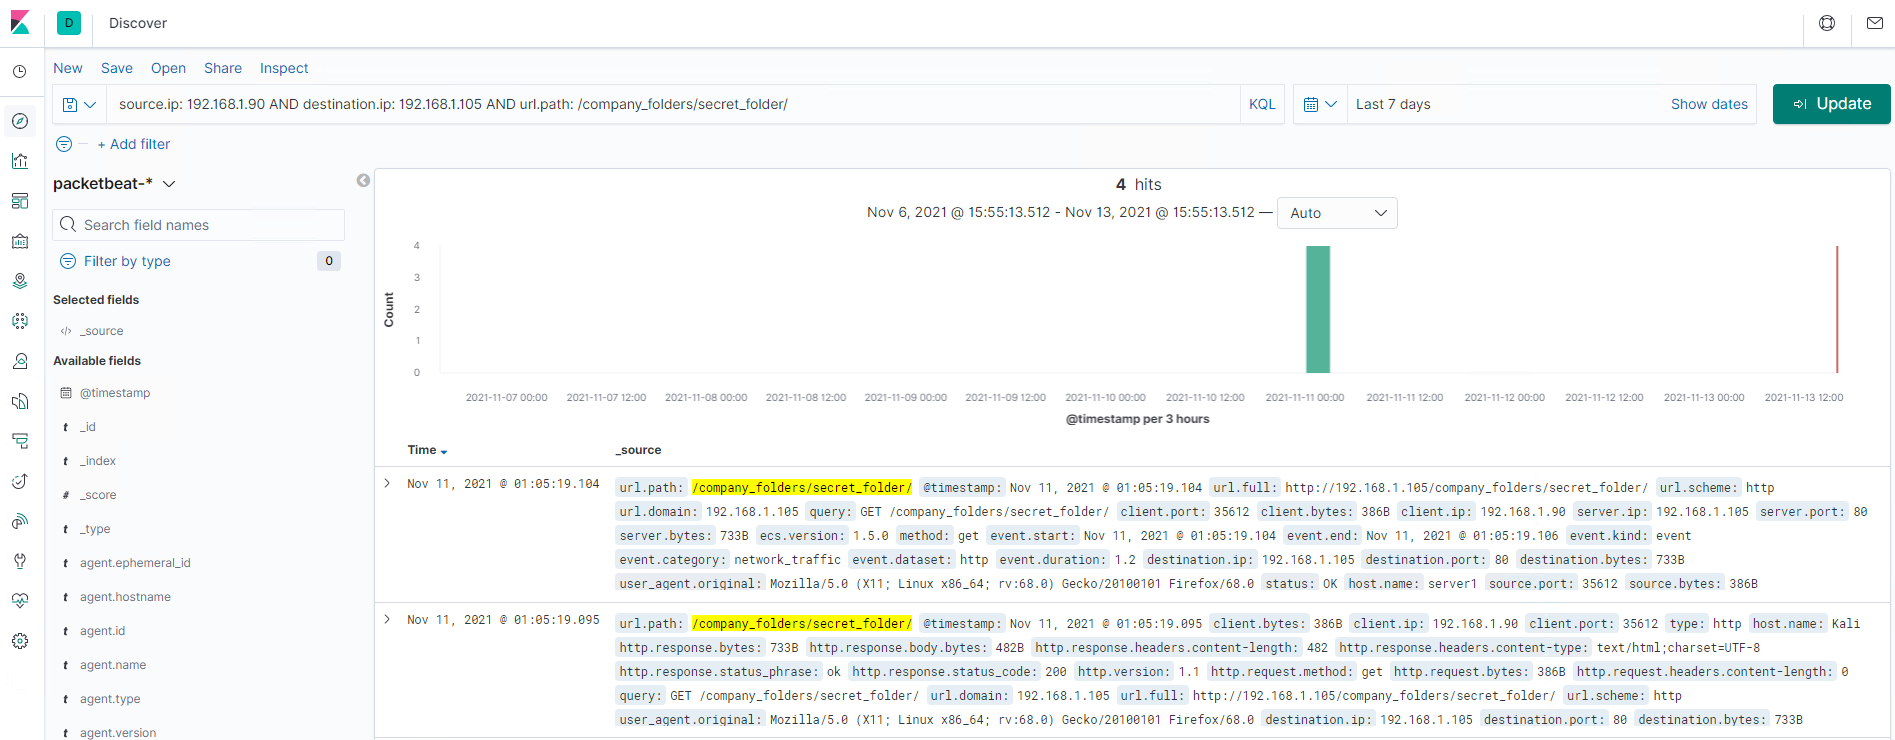
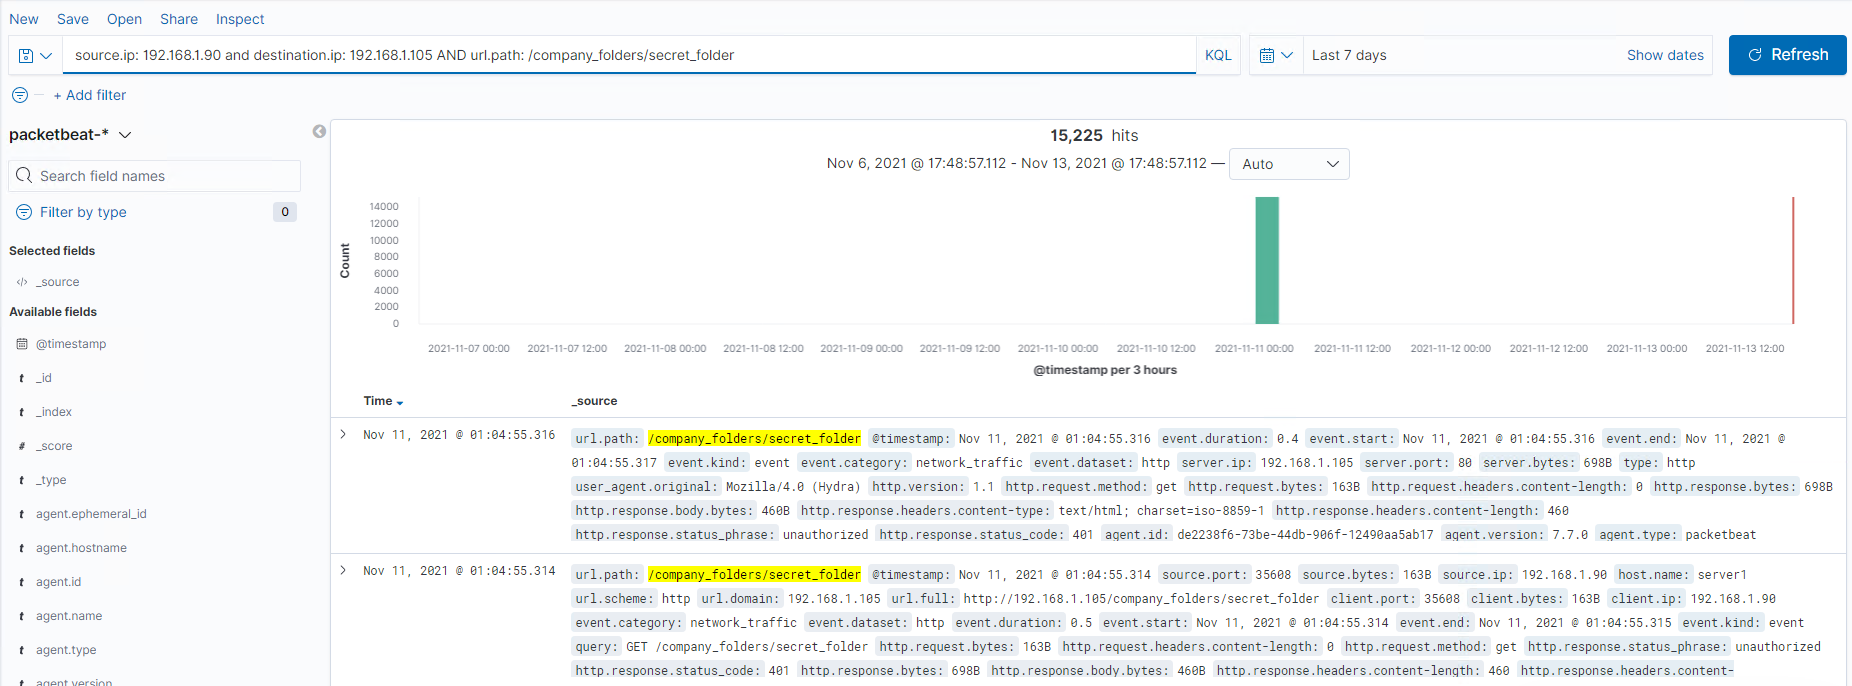
Initial_Commit

diff --git a/20. Red vs Blue/2. Blue/README.md b/20. Red vs Blue/2. Blue/README.md
@@ -27,7 +27,7 @@
 - In your attack, you found a secret folder. Let's look at that interaction between these two machines. `source.ip: 192.168.1.90 AND destination.ip: 192.168.1.105 AND url.path: /company_folders/secret_folder/`
 
   - How many requests were made to this directory? At what time and from which IP address(es)? 
-    - 15,225 (source.ip: 192.168.1.90)(Nov 11, 2021 @ 00:50:00.000 and Nov 11, 2021 @ 01:05:00.0)
+    - 4 (source.ip: 192.168.1.90)(Nov 11, 2021 @ 00:50:00.000 and Nov 11, 2021 @ 01:05:00.0)
   ![2.1](https://github.com/dsteves28/CyberSecurity-Bootcamp/blob/main/20.%20Red%20vs%20Blue/2.%20Blue/2.1.PNG)
   - Which files were requested? What information did they contain? 
     - `192.168.1.105/company_folders/secret_folder/connect_to_corp_server`
